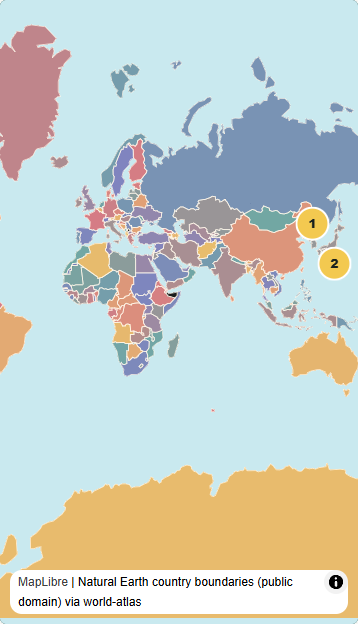
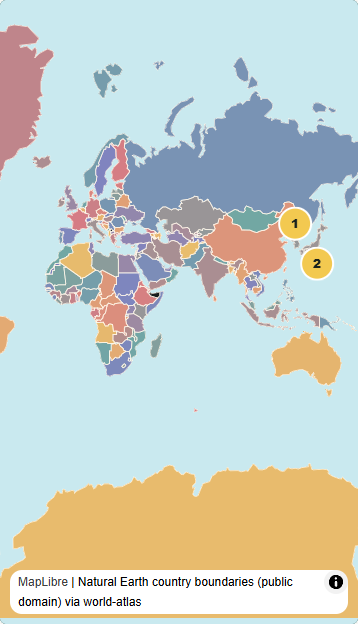
Fix in-app atlas marker margin

diff --git a/src/features/atlas/WorldMap.test.tsx b/src/features/atlas/WorldMap.test.tsx
@@ -250,13 +250,28 @@ describe('WorldMap', () => {
 
     expect(maplibreMocks.maps[0].fitBounds).not.toHaveBeenCalled();
     expect(maplibreMocks.maps[0].options).toMatchObject({
-      center: [50, 20],
+      center: [60, 20],
       minZoom: 0,
       style: atlasStyle,
       zoom: 0,
     });
     expect(maplibreMocks.markers.map((marker) => marker.offset)).toEqual([[0, 18], [0, -18]]);
     expect(maplibreMocks.maps[0].jumpTo).not.toHaveBeenCalled();
+    clientWidth.mockRestore();
+  });
+
+  it('keeps East Asia markers inside a 343px narrow map with camera margin', () => {
+    const clientWidth = vi.spyOn(HTMLElement.prototype, 'clientWidth', 'get').mockReturnValue(343);
+
+    render(<WorldMap countries={countries} onCountrySelect={vi.fn()} />);
+
+    expect(maplibreMocks.maps[0].options).toMatchObject({
+      center: [60, 20],
+      minZoom: 0,
+      style: atlasStyle,
+      zoom: 0,
+    });
+    expect(maplibreMocks.markers.map((marker) => marker.offset)).toEqual([[0, 18], [0, -18]]);
     clientWidth.mockRestore();
   });
 

diff --git a/e2e/atlas-playback.spec.ts b/e2e/atlas-playback.spec.ts
@@ -387,12 +387,14 @@ test('keeps East Asia markers inside the map after a mobile orientation change',
   const map = page.locator('.world-map');
   await expect(map).toHaveAttribute('data-map-ready', 'true', { timeout: 45_000 });
 
-  diagnostics.setStage('portrait orientation resize');
-  await page.setViewportSize({ width: 390, height: 844 });
-  await expect(map).toHaveAttribute('data-map-ready', 'true', { timeout: 45_000 });
-  await expectNonBlankMapCanvas(page);
-  await expectEastAsiaMarkerPlacement(page);
-  await verifyRouteLayout(page);
+  for (const width of [390, 375]) {
+    diagnostics.setStage(`portrait orientation resize at ${width}px`);
+    await page.setViewportSize({ width, height: 844 });
+    await expect(map).toHaveAttribute('data-map-ready', 'true', { timeout: 45_000 });
+    await expectNonBlankMapCanvas(page);
+    await expectEastAsiaMarkerPlacement(page);
+    await verifyRouteLayout(page);
+  }
   expect(diagnostics.errors).toEqual([]);
 });
 

diff --git a/src/features/atlas/WorldMap.tsx b/src/features/atlas/WorldMap.tsx
@@ -20,7 +20,7 @@ function worldCameraForWidth(containerWidth: number) {
   const clampedZoom = Math.min(MAX_WORLD_ZOOM, Math.max(MIN_WORLD_ZOOM, zoom));
   return {
     camera: {
-      center: (zoom <= MIN_WORLD_ZOOM ? [50, 20] : [0, 20]) as [number, number],
+      center: (zoom <= MIN_WORLD_ZOOM ? [60, 20] : [0, 20]) as [number, number],
       zoom: clampedZoom,
     },
     isNarrow: zoom <= MIN_WORLD_ZOOM,

diff --git a/.superpowers/sdd/in-app-marker-fix-report.md b/.superpowers/sdd/in-app-marker-fix-report.md
@@ -1,0 +1,29 @@
+# In-App Marker Fix Report
+
+## Root cause
+
+The narrow world camera centered on longitude 50 without accounting for the 15px classic scrollbar that reduces a 390px viewport to a 375px content viewport. After the page inset, the map is 343px wide. At that width, the Japan marker box ended at x=360 while the map ended at x=359.
+
+## Red-green evidence
+
+- Added a WorldMap regression at the actual 343px container width. Before the product change it failed because the camera center was `[50, 20]` instead of `[60, 20]`.
+- Extended the orientation E2E scenario to validate full East Asia marker boxes at both 390px and 375px portrait widths. Before the product change it failed with Japan ending at x=360 beyond the map right edge x=359.
+- Changed only the narrow camera center from 50 to 60. The focused unit and orientation E2E now pass.
+
+## Baselines
+
+The narrow camera framing changes the mobile canvas output, so these shared baselines were regenerated:
+
+- `atlas-map-initial-mobile.png`
+- `atlas-map-remount-mobile.png`
+
+## Verification
+
+- Focused WorldMap unit: 8 passed.
+- Orientation E2E at 390px and 375px: 1 passed.
+- Existing mobile journey flow after baseline regeneration: 1 passed.
+- Full E2E: 7 passed, 1 expected desktop skip.
+- Full unit suite: 52 passed across 11 files.
+- Typecheck: passed.
+- Production build: passed. Vite reported a bundle-size warning.
+- `git diff --check`: passed.